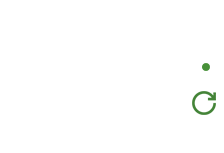
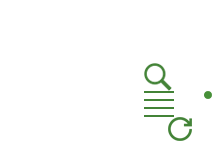
menu

Changed region(s): [[0.625, 0.3922, 0.875, 0.9412], [0.8438, 0.5752, 0.9688, 0.7582], [0.875, 0.3922, 0.9375, 0.4706]]

diff --git a/css/style.min.css b/css/style.min.css
@@ -1,1 +1,1 @@
[2 lines of base64/hex data omitted]

diff --git a/css/style.css b/css/style.css
@@ -317,37 +317,49 @@ The `sprites` mixin generates identical output to the CSS template
 
 .celsius {
   background-image: url(../img/icon-set.png);
-  background-position: -144px -91px;
+  background-position: -200px -63px;
   width: 24px;
   height: 24px; }
 
 .dot {
   background-image: url(../img/icon-set.png);
-  background-position: -202px -63px;
+  background-position: -204px -91px;
   width: 8px;
   height: 8px; }
 
+.menu-button-green {
+  background-image: url(../img/icon-set.png);
+  background-position: -144px -91px;
+  width: 30px;
+  height: 26px; }
+
 .menu-button {
   background-image: url(../img/icon-set.png);
-  background-position: -172px -63px;
+  background-position: -174px -91px;
   width: 30px;
   height: 26px; }
 
 .refresh-hover {
   background-image: url(../img/icon-set.png);
-  background-position: -168px -91px;
+  background-position: -144px -117px;
   width: 24px;
   height: 24px; }
 
 .refresh {
   background-image: url(../img/icon-set.png);
-  background-position: -192px -91px;
+  background-position: -168px -117px;
   width: 24px;
   height: 24px; }
 
-.search {
+.search-green {
   background-image: url(../img/icon-set.png);
   background-position: -144px -63px;
+  width: 28px;
+  height: 28px; }
+
+.search {
+  background-image: url(../img/icon-set.png);
+  background-position: -172px -63px;
   width: 28px;
   height: 28px; }
 
@@ -447,7 +459,7 @@ section {
     content: '';
     display: inline-block;
     background-image: url(../img/icon-set.png);
-    background-position: -192px -91px;
+    background-position: -168px -117px;
     width: 24px;
     height: 24px;
     -webkit-transition: -webkit-transform .5s;
@@ -461,7 +473,7 @@ section {
     background-color: #438337; }
     .btn--refresh:hover:before, .history-park__more:hover:before {
       background-image: url(../img/icon-set.png);
-      background-position: -168px -91px;
+      background-position: -144px -117px;
       width: 24px;
       height: 24px;
       -webkit-transform: rotate(360deg);
@@ -545,6 +557,120 @@ section {
     position: relative;
     padding: 40px 0 50px;
     margin: auto; }
+
+.header-menu {
+  vertical-align: top;
+  display: inline-block;
+  position: absolute;
+  top: 70px;
+  right: 73px; }
+  .header-menu__wrap {
+    width: 100%; }
+    .header-menu__wrap button {
+      background: none;
+      border: none;
+      background-image: url(../img/icon-set.png);
+      background-position: -174px -91px;
+      width: 30px;
+      height: 26px; }
+      .header-menu__wrap button.active {
+        position: fixed;
+        background-image: url(../img/icon-set.png);
+        background-position: -144px -91px;
+        width: 30px;
+        height: 26px; }
+
+.main-menu {
+  z-index: 20;
+  text-align: right;
+  padding-top: 150px;
+  padding-right: 73px;
+  padding-left: 80px;
+  height: 2000px;
+  position: fixed;
+  right: -100%;
+  top: 0;
+  background-color: #fff;
+  -webkit-transition: right .5s;
+  transition: right .5s; }
+  .main-menu.active {
+    right: 0; }
+  .main-menu__button {
+    outline: none;
+    cursor: pointer;
+    z-index: 21;
+    position: relative; }
+    .main-menu__button-wrap {
+      display: inline-block;
+      width: 30px;
+      height: 26px; }
+  .main-menu__header {
+    color: #1c1a16;
+    font-size: 18px;
+    font-weight: 700;
+    text-transform: uppercase;
+    margin-bottom: 25px; }
+  .main-menu li {
+    margin-bottom: 10px; }
+  .main-menu a {
+    color: #1c1a16;
+    font-size: 16px;
+    font-weight: 400;
+    text-decoration: none; }
+    .main-menu a:hover {
+      color: #438337; }
+
+.overlay {
+  display: none;
+  position: fixed;
+  height: 2000px;
+  left: 0;
+  right: 0;
+  background-color: #000;
+  opacity: .75;
+  z-index: 10; }
+
+.search-block {
+  vertical-align: top;
+  display: inline-block;
+  margin-right: 30px;
+  vertical-align: top; }
+  .search-block:after {
+    content: '';
+    display: block;
+    left: 0;
+    bottom: 0;
+    -webkit-transition: width .5s;
+    transition: width .5s;
+    width: 0%;
+    height: 1px;
+    background-color: #fff; }
+  .search-block__form input {
+    vertical-align: top;
+    padding-top: 3px;
+    padding-bottom: 15px;
+    display: none;
+    outline: none;
+    color: white;
+    background: none;
+    border: none; }
+  .search-block button {
+    cursor: pointer;
+    outline: none;
+    vertical-align: top;
+    background-image: url(../img/icon-set.png);
+    background-position: -172px -63px;
+    width: 28px;
+    height: 28px; }
+  .search-block.active:after {
+    width: 100%; }
+  .search-block.active input {
+    display: inline-block; }
+  .search-block.active button {
+    background-image: url(../img/icon-set.png);
+    background-position: -144px -63px;
+    width: 28px;
+    height: 28px; }
 
 /*-------------------------------------------------*/
 /*    news

diff --git a/index.html b/index.html
@@ -29,6 +29,37 @@
     <div class="page">
       <div class="page__header">
         <div class="container">
+          <div class="overlay"></div>
+          <div class="header-menu__wrap">
+            <div class="header-menu">
+              <div class="search-block">
+                <form action="#" class="search-block__form">
+                  <input type="text" placeholder="Поиск по сайту">
+                  <button type="submit"></button>
+                </form>
+              </div>
+              <div class="main-menu__button-wrap">
+                <button class="main-menu__button"></button>
+              </div>
+              <div class="main-menu">
+                <div class="main-menu__header">меню сайта</div>
+                <ul class="main-menu__list"> 
+                  <li><a href="#">История парка</a></li>
+                  <li><a href="#">Афиша</a></li>
+                  <li><a href="#">Новости и События</a></li>
+                  <li><a href="#">Фотогалерея</a></li>
+                  <li><a href="#">Наши партнеры</a></li>
+                  <li><a href="#">Пресса о нас</a></li>
+                  <li><a href="#">Детям</a></li>
+                  <li><a href="#">Старшему поколению</a></li>
+                  <li><a href="#">Услуги</a></li>
+                  <li><a href="#">Документы</a></li>
+                  <li><a href="#">Карта парка</a></li>
+                  <li><a href="#">Контакты</a></li>
+                </ul>
+              </div>
+            </div>
+          </div>
           <div class="main-header color-white"><a href="/" class="logo main-header__logo"><img src="img/logo.png" alt=""></a>
             <div class="main-header__text-wrap">
               <div class="main-header__text">

diff --git a/js/main.js b/js/main.js
@@ -1,5 +1,48 @@
   var maxHeight = $('.events .events__item').height();
   $(document).ready(function(){
+    /*-------------------------------------------------*/
+    /*    header menu, search
+    /*-------------------------------------------------*/
+
+    $('.search-block button').click(function(){
+        var searchBlock = $(this).closest('.search-block');
+        if(!$(searchBlock).is('.active')){
+            $(this).closest('.search-block').addClass('active');
+            return false;
+        }else{
+            $(this).closest('form').submit();
+        }
+    }); 
+
+    $('.main-menu__button').click(function(){
+        toggleAct(this);
+        toggleAct('.main-menu');
+        toggleOverlay();
+    });
+
+    $('.overlay').click(function(){
+        toggleOverlay();
+        toggleAct('.main-menu__button');
+        toggleAct('.main-menu');
+    });
+
+    function toggleOverlay(){
+        var ov = $('.overlay');
+        if(ov.is(':visible')){
+            ov.fadeOut();
+        }else{
+            ov.fadeIn();
+        }
+    }
+
+    function toggleAct(e){
+        if(!$(e).is('.active')){
+            $(e).addClass('active');
+        }else{
+            $(e).removeClass('active');
+        }
+    }
+
     $('.events .events__item').each(function(){
     if(maxHeight < $(this).height()){
         maxHeight = $(this).height();
